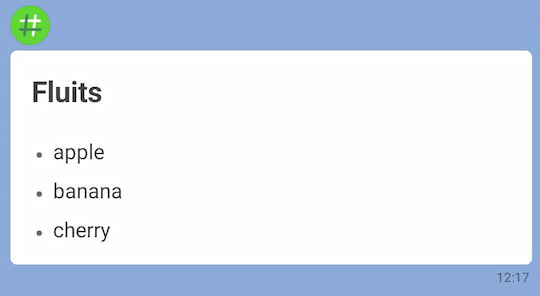
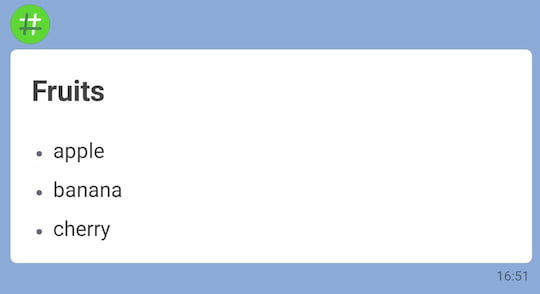
docs: modify README

diff --git a/README.md b/README.md
@@ -1,5 +1,5 @@
 <p align="center">
-  <img width="180" src="https://raw.githubusercontent.com/Arahabica/line-markdown/main/docs/images/line-markdown.png" alt="line-markdown logo">
+  <img width="180" src="docs/images/line-markdown.png" alt="line-markdown logo">
 </p>
 <p align="center">
   <a href="https://badge.fury.io/js/line-markdown" rel="nofollow"><img src="https://badge.fury.io/js/line-markdown.svg" alt="npm version"></a>
@@ -11,26 +11,26 @@
 
 line-markdown is a converter that transforms Markdown into Flex Message for the LINE Messaging API.
 
-## Installation
+# Installation
 
 ```bash
 npm install line-markdown --save
 ```
 
-## Usage
+# Usage
 
-### Basic usage
+## Basic usage
 
 Convert the markdown to a Flex Message.
 
-#### Code
+### Code
 
 ```js
 import { convertToFlexMessage } from 'line-markdown'
 import * as line from '@line/bot-sdk'
 
 const markdownText = `
-# Fluits
+# Fruits
 * apple
 * banana
 * cherry
@@ -51,18 +51,236 @@ convertToFlexMessage(markdownText)
   })
 ```
 
-#### Result
+### Result
 
-**Talk List Screen**
-The alternative text is set to `markdown` by default, so the talk list screen will show `markdown`.
+#### Talk List Screen
 
-![Example1 Alt](https://raw.githubusercontent.com/Arahabica/line-markdown/main/docs/images/example1_alt.jpg)
+The default alternative text is `markdown`, so the talk list screen will display `markdown`.
 
-**Talk Screen**
-The size of the Flex message bubble is set to `giga` by default.
+![Example1 Alt](docs/images/example1_alt.jpg)
 
-![Example1 Flex](https://raw.githubusercontent.com/Arahabica/line-markdown/main/docs/images/example1_flex.jpg)
+#### Talk Screen
+
+The default size of the Flex message bubble is `giga`.
+
+![Example1 Flex](docs/images/example1_flex.jpg)
+
+## Custom Alternative text
+
+To set custom alternative text and set the bubble size to mega, use the following code.
+
+### Code
+
+```typescript
+import { convertToFlexMessage } from 'line-markdown'
+import * as line from '@line/bot-sdk'
+
+const markdownText = `
+# Fruits
+* apple
+* banana
+* cherry
+`.trim()
+
+convertToFlexMessage(markdownText, 'Fruits', { size: 'mega' })
+  .then(({ flexMessage }) => {
+    const client = new line.messagingApi.MessagingApiClient({
+      channelAccessToken: '{{YOUR_CHANNEL_ACCESS_TOKEN}}'
+    })
+    return client.pushMessage({
+      to: '{{YOUR_USER_ID}}',
+      messages: [flexMessage]
+    })
+  })
+
+```
+
+### Result
+
+#### Talk List Screen
+
+The alternative text is `Fruits`.
+
+![Example2 Alt](docs/images/example2_alt.jpg)
+
+#### Talk Screen
+
+The size of the Flex message bubble is set to `mega`.
+
+![Example2 Flex](docs/images/example2_flex.jpg)
+
+## Code Display
+
+`line-markdown` also supports the display of code.
+
+### Code
+
+```typescript
+import { convertToFlexMessage } from 'line-markdown'
+import * as line from '@line/bot-sdk'
+
+const markdownText =
+  [
+    '```typescript                                 ',
+    'const add = (a:number, b:number): number => { ',
+    '  return a + b                                ',
+    '}                                             ',
+    '```                                           '
+  ].join("\n")
+
+convertToFlexMessage(markdownText, 'Typescript sample')
+  .then(({ flexMessage, textType }) => {
+    console.log(textType) // => "code"
+    const client = new line.messagingApi.MessagingApiClient({
+      channelAccessToken: '{{YOUR_CHANNEL_ACCESS_TOKEN}}'
+    })
+    return client.pushMessage({
+      to: '{{YOUR_USER_ID}}',
+      messages: [flexMessage]
+    })
+  })
+```
+
+### Result
+
+#### Talk List Screen
+
+![Example3 Alt](docs/images/example3_alt.jpg)
+
+#### Talk Screen
+
+![Example3 Flex](docs/images/example3_flex.jpg)
+
+## Flex Bubble
+
+You can convert Markdown into a Flex Bubble, which allows you to use Markdown as part of a carousel
+
+###　Code
+
+```typescript
+import { convertToFlexBubble } from 'line-markdown'
+import * as line from '@line/bot-sdk'
+
+const markdownText = `
+# Fruits
+* apple
+* banana
+* cherry
+`.trim()
+convertToFlexBubble(markdownText, { size: 'micro' })
+  .then(({ flexBubble }) => {
+    const message = {
+      type: "flex",
+      altText: 'Fruits',
+      contents: {
+        type: 'carousel',
+        contents: [
+          flexBubble,
+          {
+            type: "bubble",
+            size: "micro",
+            body: {
+              type: "box",
+              layout: "vertical",
+              justifyContent: "center",
+              contents: [
+                {
+                  type: "button",
+                  action: {
+                    type: "uri",
+                    label: "Show more",
+                    uri: "http://linecorp.com/"
+                  }
+                }
+              ]
+            }
+          }
+        ]
+      }
+    }
+    const client = new line.messagingApi.MessagingApiClient({
+      channelAccessToken: '{{YOUR_CHANNEL_ACCESS_TOKEN}}'
+    })
+    return client.pushMessage({
+      to: '{{YOUR_USER_ID}}',
+      messages: [message]
+    })
+  })
+```
+
+### Result
+
+#### Talk List Screen
+
+![Example4 Alt](docs/images/example4_alt.jpg)
+
+#### Talk Screen
+
+![Example4 Flex](docs/images/example4_flex.jpg)
+
+
+## Flex Box
+
+You can convert Markdown into a Flex Box. This allows you to use Markdown as part of a Flex Bubble.
+
+### Code
+
+```typescript
+import { convertToFlexBox } from 'line-markdown'
+import * as line from '@line/bot-sdk'
+
+const markdownText = `
+# Fruits
+* apple
+* banana
+* cherry
+`.trim()
+convertToFlexBox(markdownText)
+  .then(({ flexBox }) => {
+    const message = {
+      type: "flex",
+      altText: 'Fruits',
+      contents: {
+        type: "bubble",
+        size: 'mega',
+        body: {
+          type: "box",
+          layout: "vertical",
+          contents: [
+            flexBox,
+            {
+              type: "button",
+              action: {
+                type: "uri",
+                label: "Show more",
+                uri: "http://linecorp.com/"
+              }
+            }
+          ]
+        }
+      }
+    }
+    const client = new line.messagingApi.MessagingApiClient({
+      channelAccessToken: '{{YOUR_CHANNEL_ACCESS_TOKEN}}'
+    })
+    return client.pushMessage({
+      to: '{{YOUR_USER_ID}}',
+      messages: [message]
+    })
+  })
+```
+
+### Result
+
+#### Talk List Screen
+
+![Example5 Alt](docs/images/example5_alt.jpg)
+
+#### Talk Screen
+
+![Example5 Flex](docs/images/example5_flex.jpg)
+
 
 ## License
 
-[MIT](http://opensource.org/licenses/MIT)
+[MIT](https://opensource.org/licenses/MIT)
